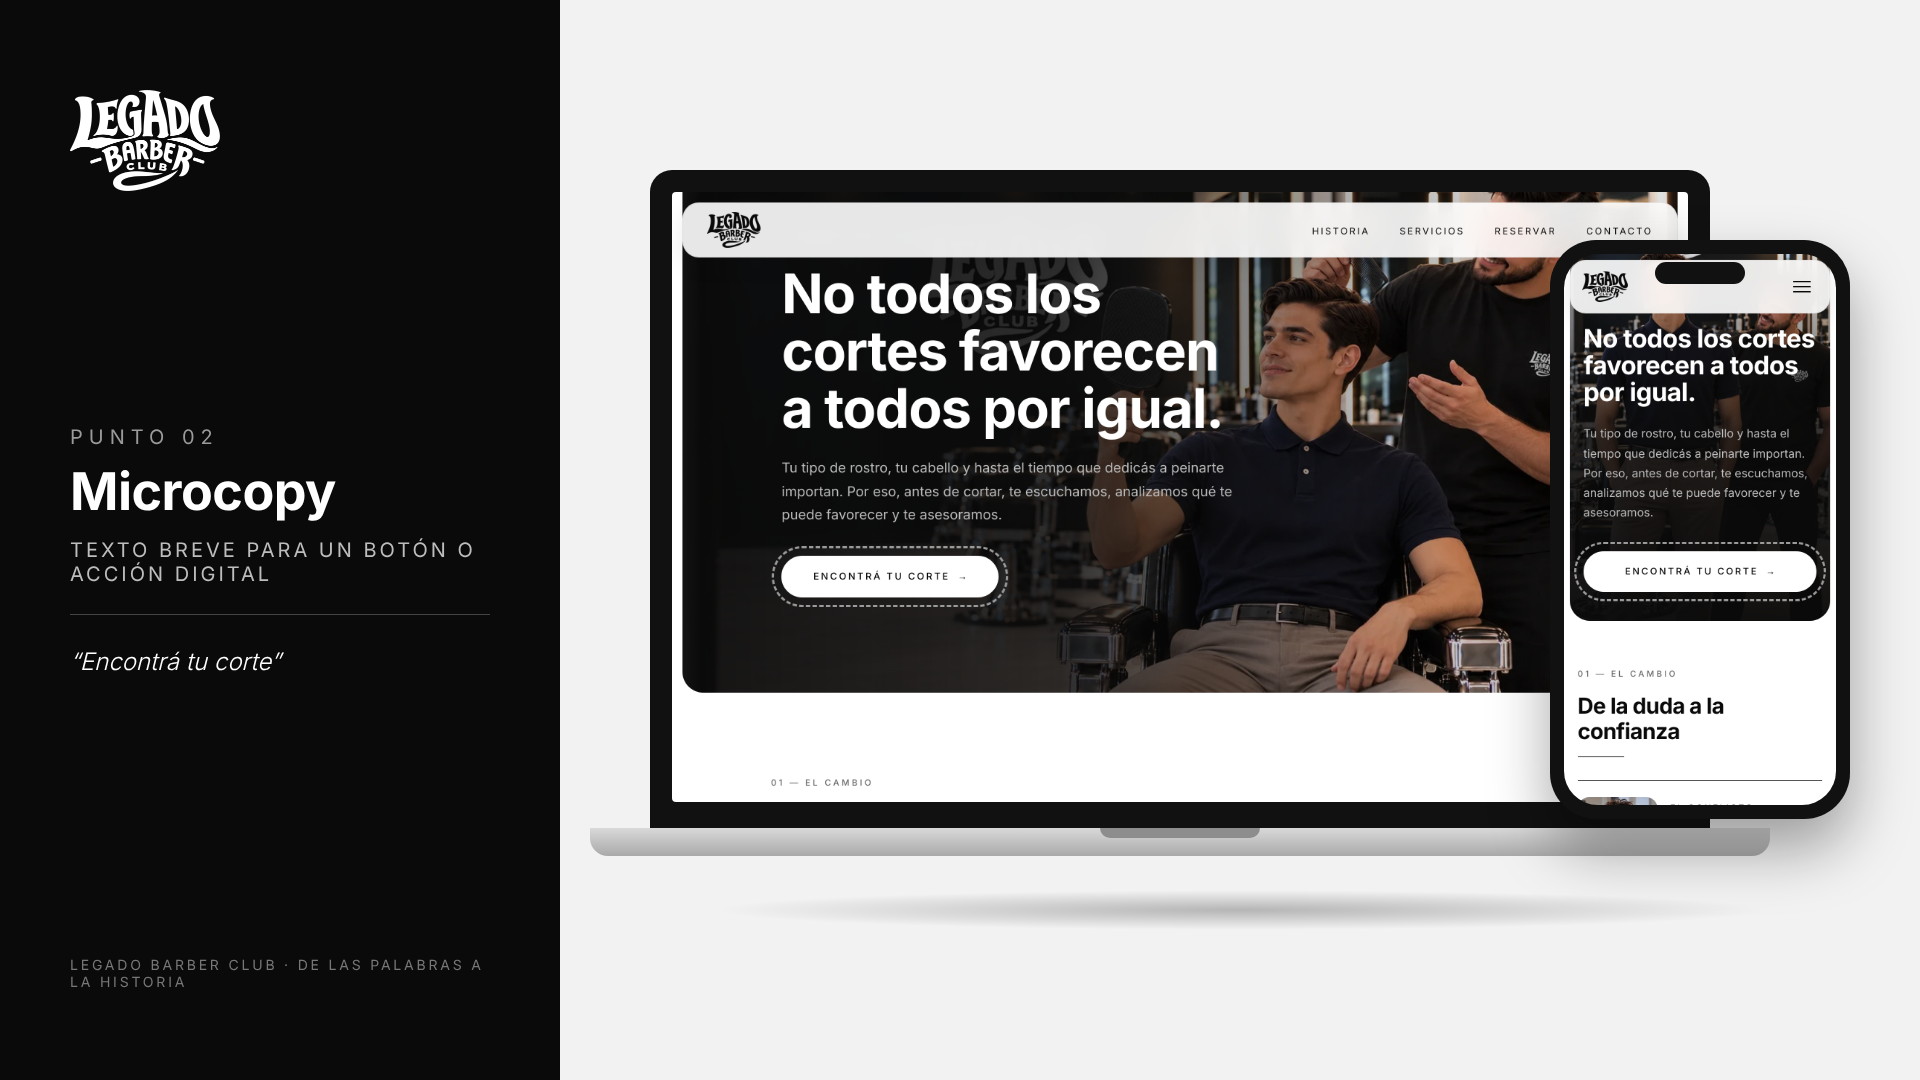
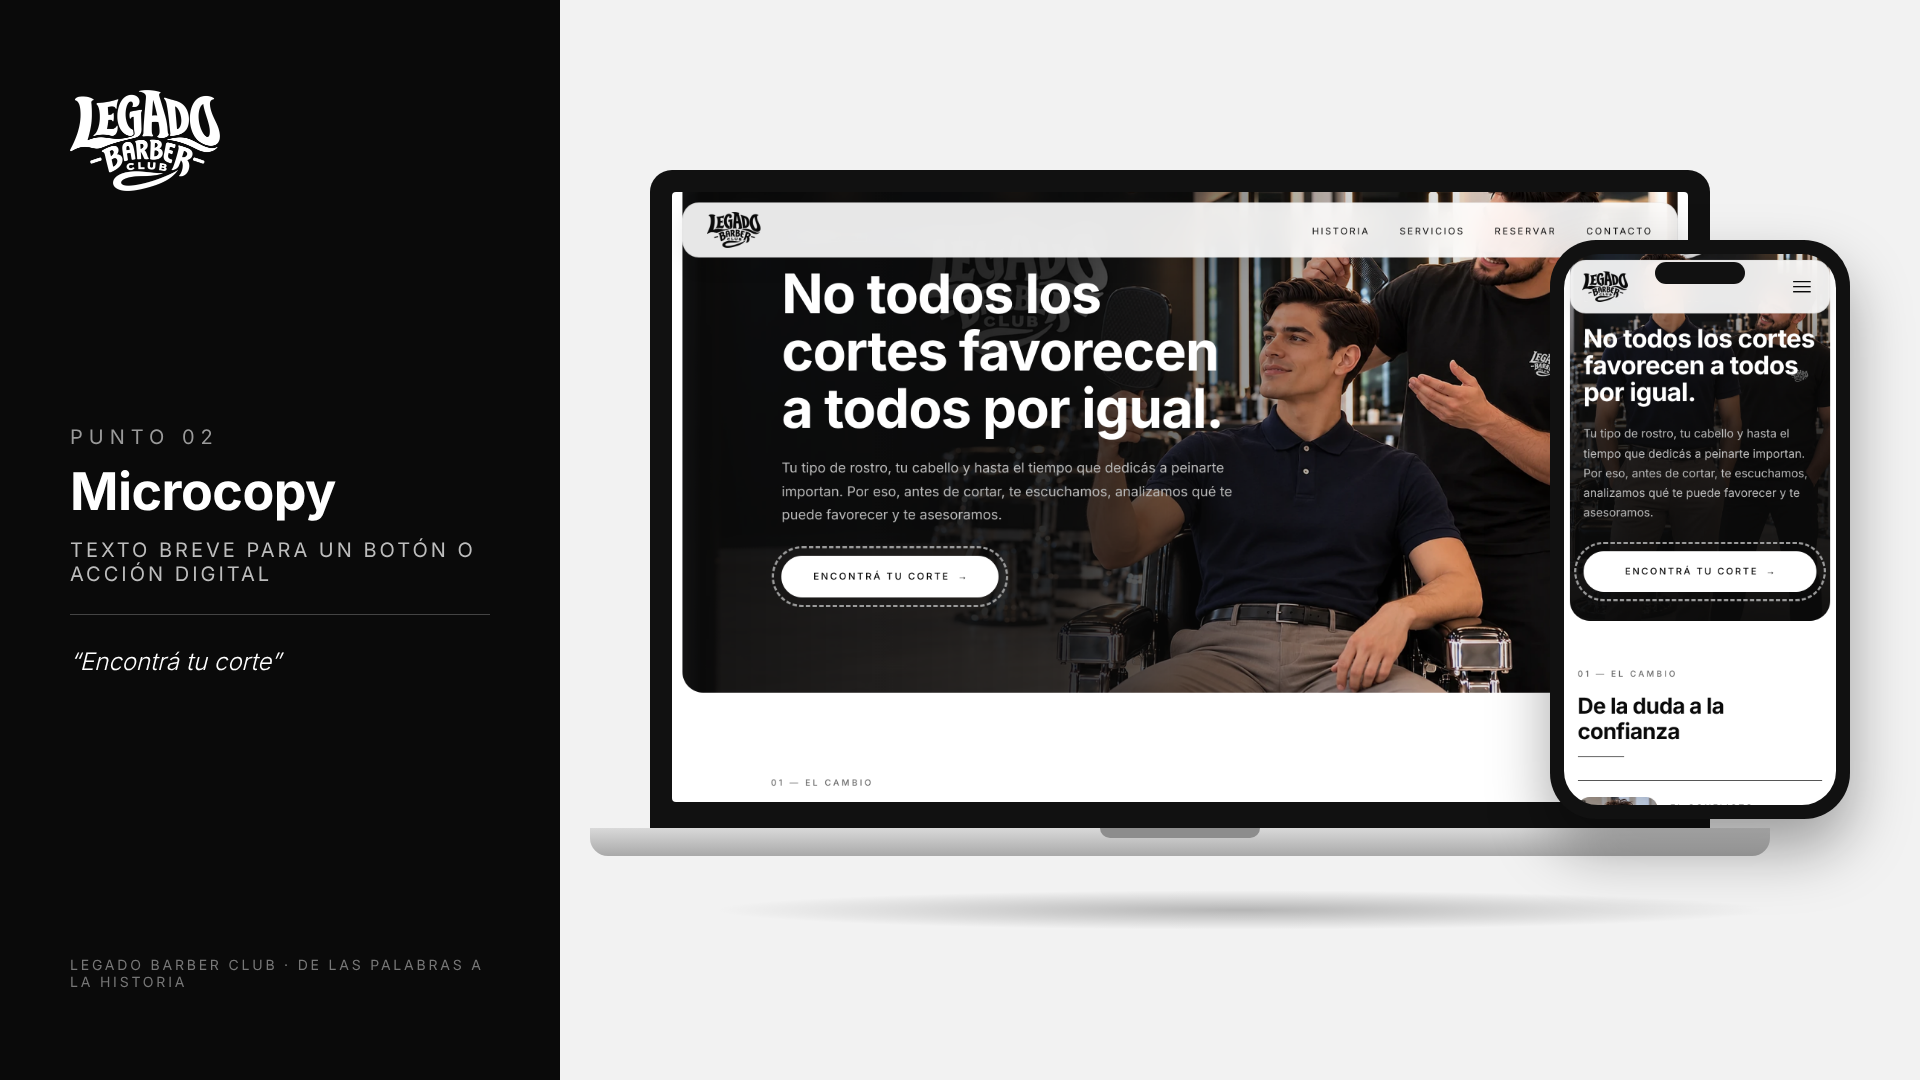
Fotos más nítidas: portada a 2560 px, portada móvil a 1290 px y viñetas a 2x, con enfoque suave
Claude-Session: https://claude.ai/code/session_01RobnzDRJb2ZKhNGXWR7zKK

diff --git a/styles.css b/styles.css
@@ -77,7 +77,7 @@ nav ul a:hover { border-color: var(--negro); }
   display: flex; flex-direction: column; justify-content: center;
   /* Degradado a la izquierda para que el texto se lea sobre la foto */
   background:
-    linear-gradient(90deg, rgba(10,10,10,.95) 0%, rgba(10,10,10,.85) 38%, rgba(10,10,10,.25) 70%, rgba(10,10,10,.1) 100%),
+    linear-gradient(90deg, rgba(10,10,10,.95) 0%, rgba(10,10,10,.85) 38%, rgba(10,10,10,.15) 68%, rgba(10,10,10,0) 100%),
     url('img/espejo.webp') 70% center / cover no-repeat var(--negro);
 }
 .hero-contenido { max-width: 640px; }

diff --git a/index.html b/index.html
@@ -8,7 +8,7 @@
   <meta name="theme-color" content="#ffffff">
   <link rel="icon" href="img/logo.jpg">
   <link rel="apple-touch-icon" href="img/logo.jpg">
-  <link rel="stylesheet" href="styles.css?v=20261022d">
+  <link rel="stylesheet" href="styles.css?v=20261022e">
 </head>
 <body>
   <header>
@@ -178,6 +178,6 @@
     <p>© 2026 Legado Barber Club · Escuchamos antes de cortar<br><small>Sitio web con fines educativos</small></p>
   </footer>
 
-  <script src="script.js?v=20261022d"></script>
+  <script src="script.js?v=20261022e"></script>
 </body>
 </html>
